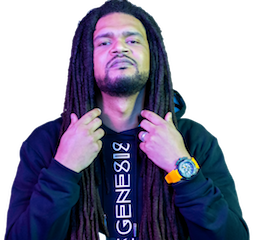
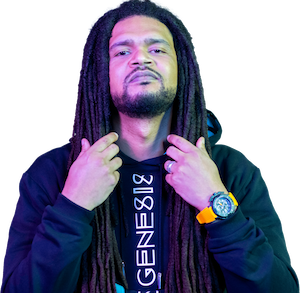
improve styling and image responsiveness

diff --git a/src/components/pages/LandingPage.js b/src/components/pages/LandingPage.js
@@ -1,6 +1,8 @@
 import React, { useEffect, useState } from 'react';
-import Renato from '../../Renato_medium.png';
-import Danny from '../../Danny_medium.png';
+import RenatoM from '../../Renato_medium.png';
+import DannyM from '../../Danny_medium.png';
+import RenatoS from '../../Renato_small.png';
+import DannyS from '../../Danny_small.png';
 import './LandingPage.css';
 
 const LandingPage = () => {
@@ -17,19 +19,28 @@ const LandingPage = () => {
   return (
     <div className="landing-page">
       <section className="art-container">
-        <img
-          className="renato"
-          src={Renato}
-          alt="renato"
-          style={{ transform: `translateX(-${offsetY * 0.2}px)` }}
-        />
-        <img
+        <picture
           className="danny"
-          src={Danny}
-          alt="danny"
-          style={{ transform: `translateX(${offsetY * 0.2}px)` }}
-        />
+          style={{
+            transform: `translate(-${offsetY * 0.1}px, ${offsetY * 0.5}px)`,
+          }}
+        >
+          <source srcSet={DannyM} media="(min-width: 600px)" />
+          <source srcSet={DannyS} media="(min-width: 300px)" />
+          <img src={DannyM} alt="danny" />
+        </picture>
+        <picture
+          className="renato"
+          style={{
+            transform: `translate(${offsetY * 0.1}px, ${offsetY * 0.5}px)`,
+          }}
+        >
+          <source srcSet={RenatoM} media="(min-width: 600px)" />
+          <source srcSet={RenatoS} media="(min-width: 300px)" />
+          <img src={RenatoM} alt="renato" />
+        </picture>
       </section>
+      <div className="sab-lettering">SAB</div>
       <section className="about">
         Lorem ipsum dolor sit amet consectetur adipisicing elit. Maiores eaque
         ipsam dicta adipisci beatae magnam expedita atque voluptates sit

diff --git a/src/components/pages/LandingPage.css b/src/components/pages/LandingPage.css
@@ -10,7 +10,50 @@
 
 .about {
   font-size: xx-large;
+  background-color: var(--main-color);
 }
 .art-container {
   width: 100%;
+  display: flex;
+  align-items: flex-end;
+  justify-content: center;
+  position: relative;
+  z-index: -1;
+}
+
+.renato {
+  z-index: -1;
+}
+.danny {
+  -webkit-filter: drop-shadow(5px -10px 20px var(--main-color));
+  filter: drop-shadow(5px -10px 20px var(--main-color));
+}
+.sab-lettering {
+  font-size: 100px;
+  color: #fff;
+  text-shadow: 0 0 7px #fff, 0 0 10px #fff, 0 0 21px #fff, 0 0 42px #0fa,
+    0 0 82px #0fa, 0 0 92px #0fa, 0 0 102px #0fa, 0 0 151px #0fa;
+}
+@media (min-width: 600px) {
+  .danny {
+    position: relative;
+    left: 50px;
+  }
+
+  .renato {
+    position: relative;
+    left: -50px;
+  }
+}
+
+@media (min-width: 300px) {
+  .danny {
+    position: relative;
+    left: 40px;
+  }
+
+  .renato {
+    position: relative;
+    left: -40px;
+  }
 }

diff --git a/src/App.css b/src/App.css
@@ -9,7 +9,7 @@
   z-index: 10;
   box-sizing: border-box;
   width: 100%;
-  border: solid 2px;
+  border: solid 5px;
   background-color: transparent;
   border-image-slice: 1;
   border-image-source: var(--main-gradient);
